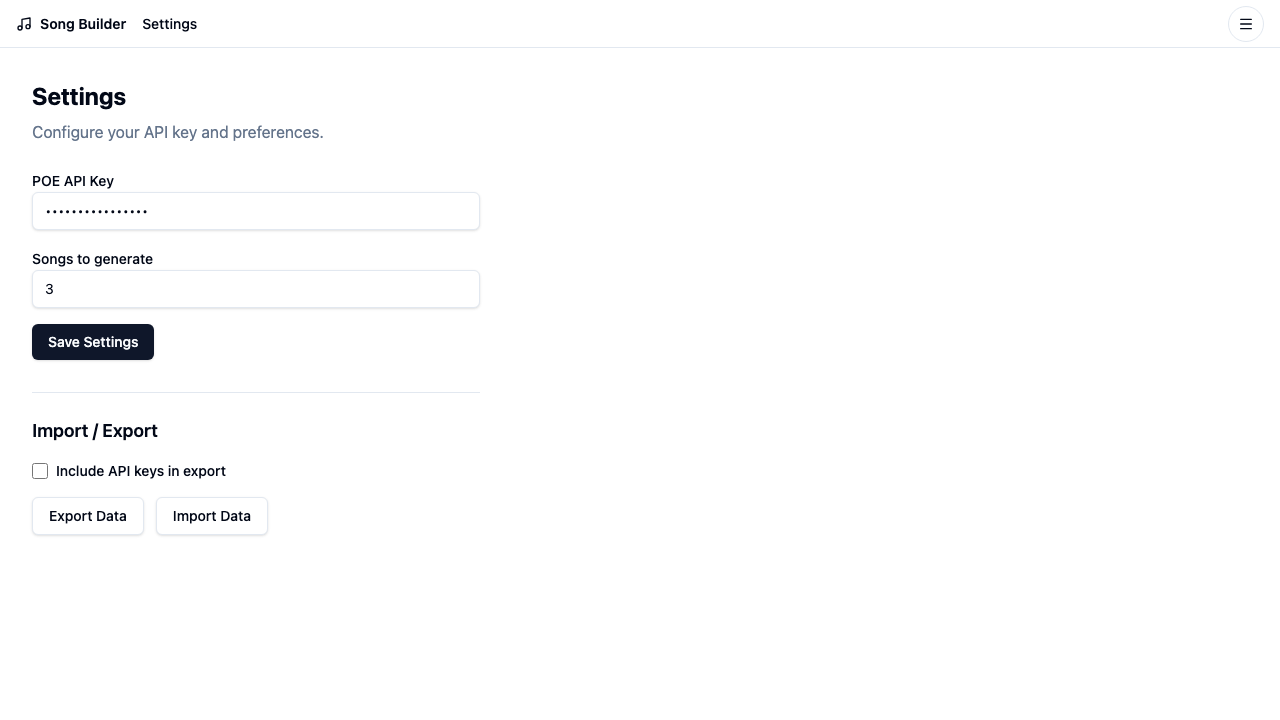
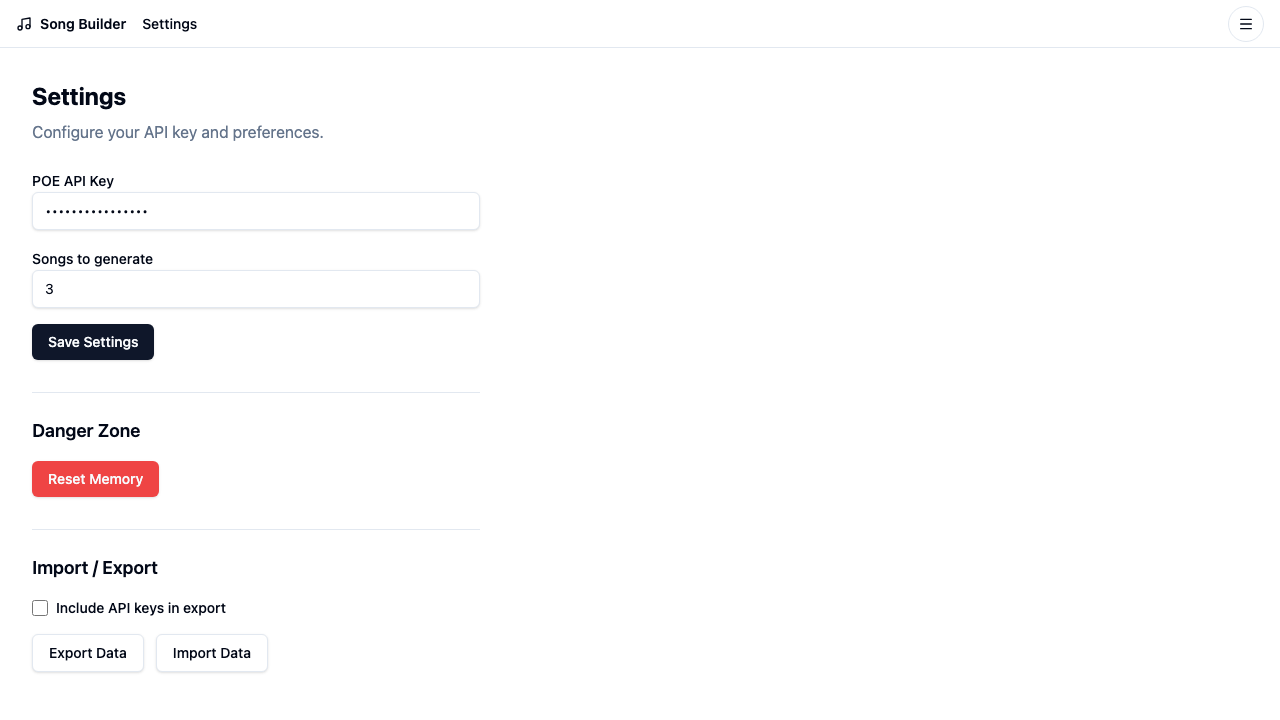
feat(US-012): Settings — Reset Memory confirmation dialog
Add Reset Memory button to Settings with a confirmation dialog that warns:
"This will permanently delete all lyrics, songs, and settings. This cannot be undone."

Cancelling dismisses the dialog without clearing data. Confirming calls
storageService.reset() + localStorage.clear() and redirects to /.

Also adds storageService.reset() to storageService and its named exports,
and Playwright tests covering button presence, dialog text, cancel, and
confirm+redirect flows.

diff --git a/src/pages/Settings.tsx b/src/pages/Settings.tsx
@@ -1,9 +1,11 @@
 import { useState, useRef, type ChangeEvent, type FormEvent } from "react";
+import { useNavigate } from "react-router-dom";
 import {
   getSettings,
   saveSettings,
   exportStorage,
   importStorage,
+  resetStorage,
 } from "@/lib/storage/storageService";
 
 function loadInitialSettings() {
@@ -16,10 +18,12 @@ function loadInitialSettings() {
 
 export default function Settings() {
   const initial = loadInitialSettings();
+  const navigate = useNavigate();
   const [apiKey, setApiKey] = useState(initial.apiKey);
   const [numSongs, setNumSongs] = useState(initial.numSongs);
   const [includeApiKey, setIncludeApiKey] = useState(false);
   const [savedMessage, setSavedMessage] = useState("");
+  const [showResetDialog, setShowResetDialog] = useState(false);
   const fileInputRef = useRef<HTMLInputElement>(null);
 
   function handleSubmit(e: FormEvent<HTMLFormElement>) {
@@ -46,6 +50,12 @@ export default function Settings() {
 
   function handleImportClick() {
     fileInputRef.current?.click();
+  }
+
+  function handleResetConfirm() {
+    resetStorage();
+    localStorage.clear();
+    navigate("/");
   }
 
   function handleFileChange(e: ChangeEvent<HTMLInputElement>) {
@@ -118,6 +128,52 @@ export default function Settings() {
           <p className="text-sm text-green-600">{savedMessage}</p>
         )}
       </form>
+
+      <div className="mt-8 space-y-4 border-t pt-6">
+        <h2 className="text-lg font-semibold">Danger Zone</h2>
+
+        <button
+          type="button"
+          onClick={() => setShowResetDialog(true)}
+          className="inline-flex items-center justify-center rounded-md bg-destructive px-4 py-2 text-sm font-medium text-destructive-foreground shadow hover:bg-destructive/90 focus-visible:outline-none focus-visible:ring-1 focus-visible:ring-ring"
+        >
+          Reset Memory
+        </button>
+      </div>
+
+      {showResetDialog && (
+        <div
+          role="dialog"
+          aria-modal="true"
+          aria-labelledby="reset-dialog-title"
+          className="fixed inset-0 z-50 flex items-center justify-center bg-black/50"
+        >
+          <div className="bg-background rounded-lg shadow-lg p-6 max-w-sm w-full mx-4 space-y-4">
+            <h2 id="reset-dialog-title" className="text-lg font-semibold">
+              Reset Memory
+            </h2>
+            <p className="text-sm text-muted-foreground">
+              This will permanently delete all lyrics, songs, and settings. This cannot be undone.
+            </p>
+            <div className="flex gap-3 justify-end">
+              <button
+                type="button"
+                onClick={() => setShowResetDialog(false)}
+                className="inline-flex items-center justify-center rounded-md border border-input bg-background px-4 py-2 text-sm font-medium shadow-sm hover:bg-accent hover:text-accent-foreground focus-visible:outline-none focus-visible:ring-1 focus-visible:ring-ring"
+              >
+                Cancel
+              </button>
+              <button
+                type="button"
+                onClick={handleResetConfirm}
+                className="inline-flex items-center justify-center rounded-md bg-destructive px-4 py-2 text-sm font-medium text-destructive-foreground shadow hover:bg-destructive/90 focus-visible:outline-none focus-visible:ring-1 focus-visible:ring-ring"
+              >
+                Confirm Reset
+              </button>
+            </div>
+          </div>
+        </div>
+      )}
 
       <div className="mt-8 space-y-4 border-t pt-6">
         <h2 className="text-lg font-semibold">Import / Export</h2>

diff --git a/tests/settings.spec.ts b/tests/settings.spec.ts
@@ -155,6 +155,53 @@ test.describe("Settings: export / import", () => {
   });
 });
 
+test.describe("Settings: Reset Memory", () => {
+  test.beforeEach(async ({ page }) => {
+    await seedFixture(page, baseFixture);
+    await page.goto("/settings");
+  });
+
+  test("Reset Memory button is present", async ({ page }) => {
+    await expect(page.getByRole("button", { name: "Reset Memory" })).toBeVisible();
+  });
+
+  test("clicking Reset Memory opens confirmation dialog with exact warning text", async ({ page }) => {
+    await page.getByRole("button", { name: "Reset Memory" }).click();
+    await expect(page.getByRole("dialog")).toBeVisible();
+    await expect(
+      page.getByText(
+        "This will permanently delete all lyrics, songs, and settings. This cannot be undone."
+      )
+    ).toBeVisible();
+  });
+
+  test("cancelling dialog dismisses it without clearing data", async ({ page }) => {
+    await page.getByRole("button", { name: "Reset Memory" }).click();
+    await expect(page.getByRole("dialog")).toBeVisible();
+
+    await page.getByRole("button", { name: "Cancel" }).click();
+    await expect(page.getByRole("dialog")).not.toBeVisible();
+
+    // Data should still be intact
+    const stored = await page.evaluate(() => window.storageService.export());
+    expect(stored.messages.length).toBeGreaterThan(0);
+  });
+
+  test("confirming reset clears localStorage and redirects to /", async ({ page }) => {
+    await page.getByRole("button", { name: "Reset Memory" }).click();
+    await expect(page.getByRole("dialog")).toBeVisible();
+
+    await page.getByRole("button", { name: "Confirm Reset" }).click();
+
+    // Should redirect to /
+    await page.waitForURL("/");
+
+    // localStorage should be empty
+    const allKeys = await page.evaluate(() => Object.keys(localStorage));
+    expect(allKeys).toHaveLength(0);
+  });
+});
+
 test("@screenshot:settings settings page renders correctly with seeded data", async ({
   page,
 }) => {

diff --git a/src/lib/storage/storageService.ts b/src/lib/storage/storageService.ts
@@ -187,6 +187,16 @@ export function pinSong(id: string, pinned: boolean): boolean {
   return result !== null;
 }
 
+// ─── Reset ────────────────────────────────────────────────────────────────────
+
+/**
+ * Wipe all app-owned localStorage keys.
+ * Equivalent to localStorage.clear() scoped to the known keys.
+ */
+export function resetStorage(): void {
+  Object.values(KEYS).forEach((key) => localStorage.removeItem(key));
+}
+
 // ─── Import / Export ──────────────────────────────────────────────────────────
 
 export function exportStorage(): StorageExport {
@@ -233,4 +243,6 @@ export const storageService = {
   // Import / Export
   export: exportStorage,
   import: importStorage,
+  // Reset
+  reset: resetStorage,
 };

diff --git a/src/lib/storage/index.ts b/src/lib/storage/index.ts
@@ -18,4 +18,5 @@ export {
   pinSong,
   exportStorage,
   importStorage,
+  resetStorage,
 } from "./storageService";
